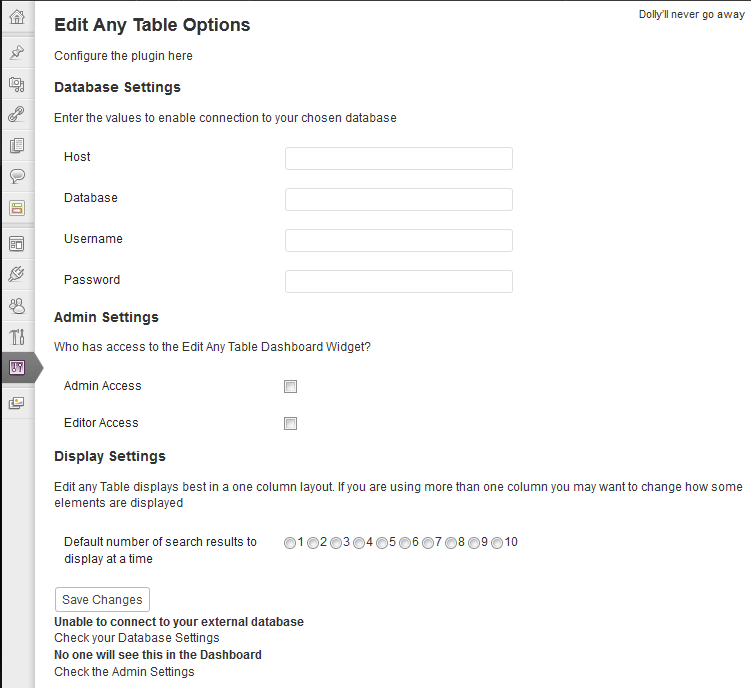
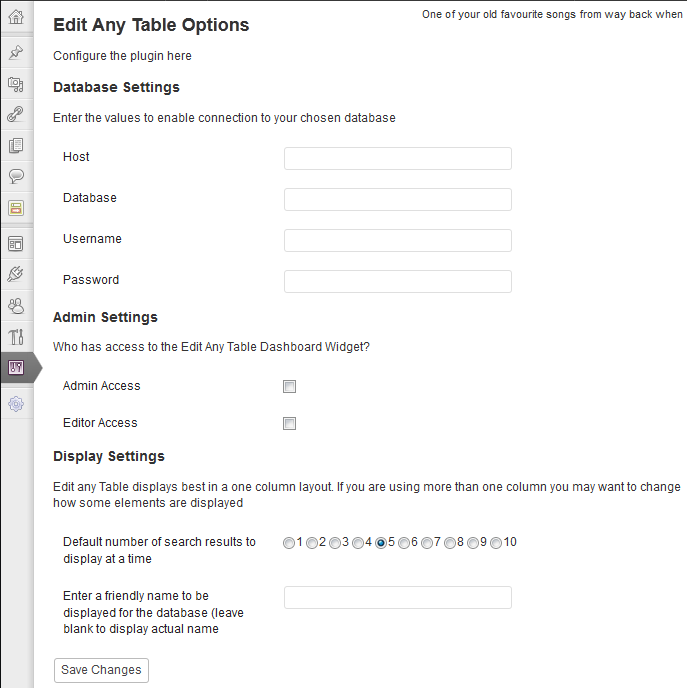
Version 1.1.0
git-svn-id: https://plugins.svn.wordpress.org/edit-any-table/trunk@580345 b8457f37-d9ea-0310-8a92-e5e31aec5664

diff --git a/EditAnyTable.php b/EditAnyTable.php
@@ -3,7 +3,7 @@
 Plugin Name: Edit Any Table
 Plugin URI: http://redeyedmonster.co.uk/2012/07/04/edit-any-table/
 Description: Dashboard widget which allows the editing of all tables in any database
-Version: 1.0.0
+Version: 1.1.0
 Author: Nigel Bachmann
 Author URI: http://redeyedmonster.co.uk
 License: GPL2
@@ -54,9 +54,9 @@ function EditAnyTable()
 	<input type="hidden" id="eat_cols" value="<?php echo $options['eat_cols']; ?>" />
 	<!-- get and store the plugin path so that it is accessable -->
 	<input type="hidden" id="eat_path" value="<?php echo plugin_dir_url(__FILE__); ?>" />
-	
+	<button class="button-primary" title="Open selected table" id="buttonGo">Open</button>
 	<select id="selectedTable">
-			<option value="NONE">*Choose Table to Edit*</option>
+			<option value="NONE">*Choose Table to Edit*&nbsp;&nbsp;</option>
 			
 	<?php
 	
@@ -68,7 +68,8 @@ function EditAnyTable()
 	}
 	
 	?>
-	</select><button class="button-primary" id="buttonGo">Go!</button>
+	</select>
+	on database: <strong><?php echo ($options['eat_friendly']==""?$options['eat_db']:$options['eat_friendly']) ?></strong>
 	<div id="outputDiv"></div>
 	
 	<?php
@@ -485,11 +486,11 @@ function TableDetails()
 		?>
 		<hr>
 		<div>
-			<button class="button-primary" id="buttonFind">Find records matching the info entered</button>
+			<button class="button-primary" title="Find records matching the values entered" id="buttonFind">Find</button>
 			&nbsp;
-			<button class="button-primary" id="buttonAdd">Add a new record with the info entered</button>
+			<button class="button-primary" title="Add a new record with the values entered" id="buttonAdd">Add</button>
 			&nbsp;
-			<button class="button" id="buttonReset">Reset</button>
+			<button class="button" title="Clear all the values" id="buttonReset">Reset</button>
 		</div>
 		<hr>
 		<div style="overflow: auto">
@@ -540,5 +541,14 @@ function add_dashboard_widget_eat()
 }
 add_action('wp_dashboard_setup','add_dashboard_widget_eat');
 
+// Add settings link on plugin page
+function your_plugin_settings_link($links) { 
+  $settings_link = '<a href="options-general.php?page=eat_options.php">Settings</a>'; 
+  array_unshift($links, $settings_link); 
+  return $links; 
+}
+ 
+$plugin = plugin_basename(__FILE__); 
+add_filter("plugin_action_links_$plugin", 'your_plugin_settings_link' );
 
 ?>

diff --git a/eat_options.php b/eat_options.php
@@ -59,6 +59,13 @@ function eat_admin_init()
 	add_settings_field('eat_editor', 'Editor Access', 'display_eat_editor','eat2','eat_main');
 	add_settings_section('eat_main', 'Display Settings','eat_ds_section_text','eat3');
 	add_settings_field('eat_cols', 'Default number of search results to display at a time', 'display_eat_cols','eat3','eat_main');
+	add_settings_field('eat_friendly','Enter a friendly name to be displayed for the database (leave blank to display actual name','display_eat_friendly','eat3','eat_main');
+}
+
+function display_eat_friendly()
+{
+	$options = get_option('eat_options');
+	echo "<input id='eat_friendly' name='eat_options[eat_friendly]' size='40' type='text' value='{$options['eat_friendly']}' />"; 	
 }
 
 function display_eat_cols()
